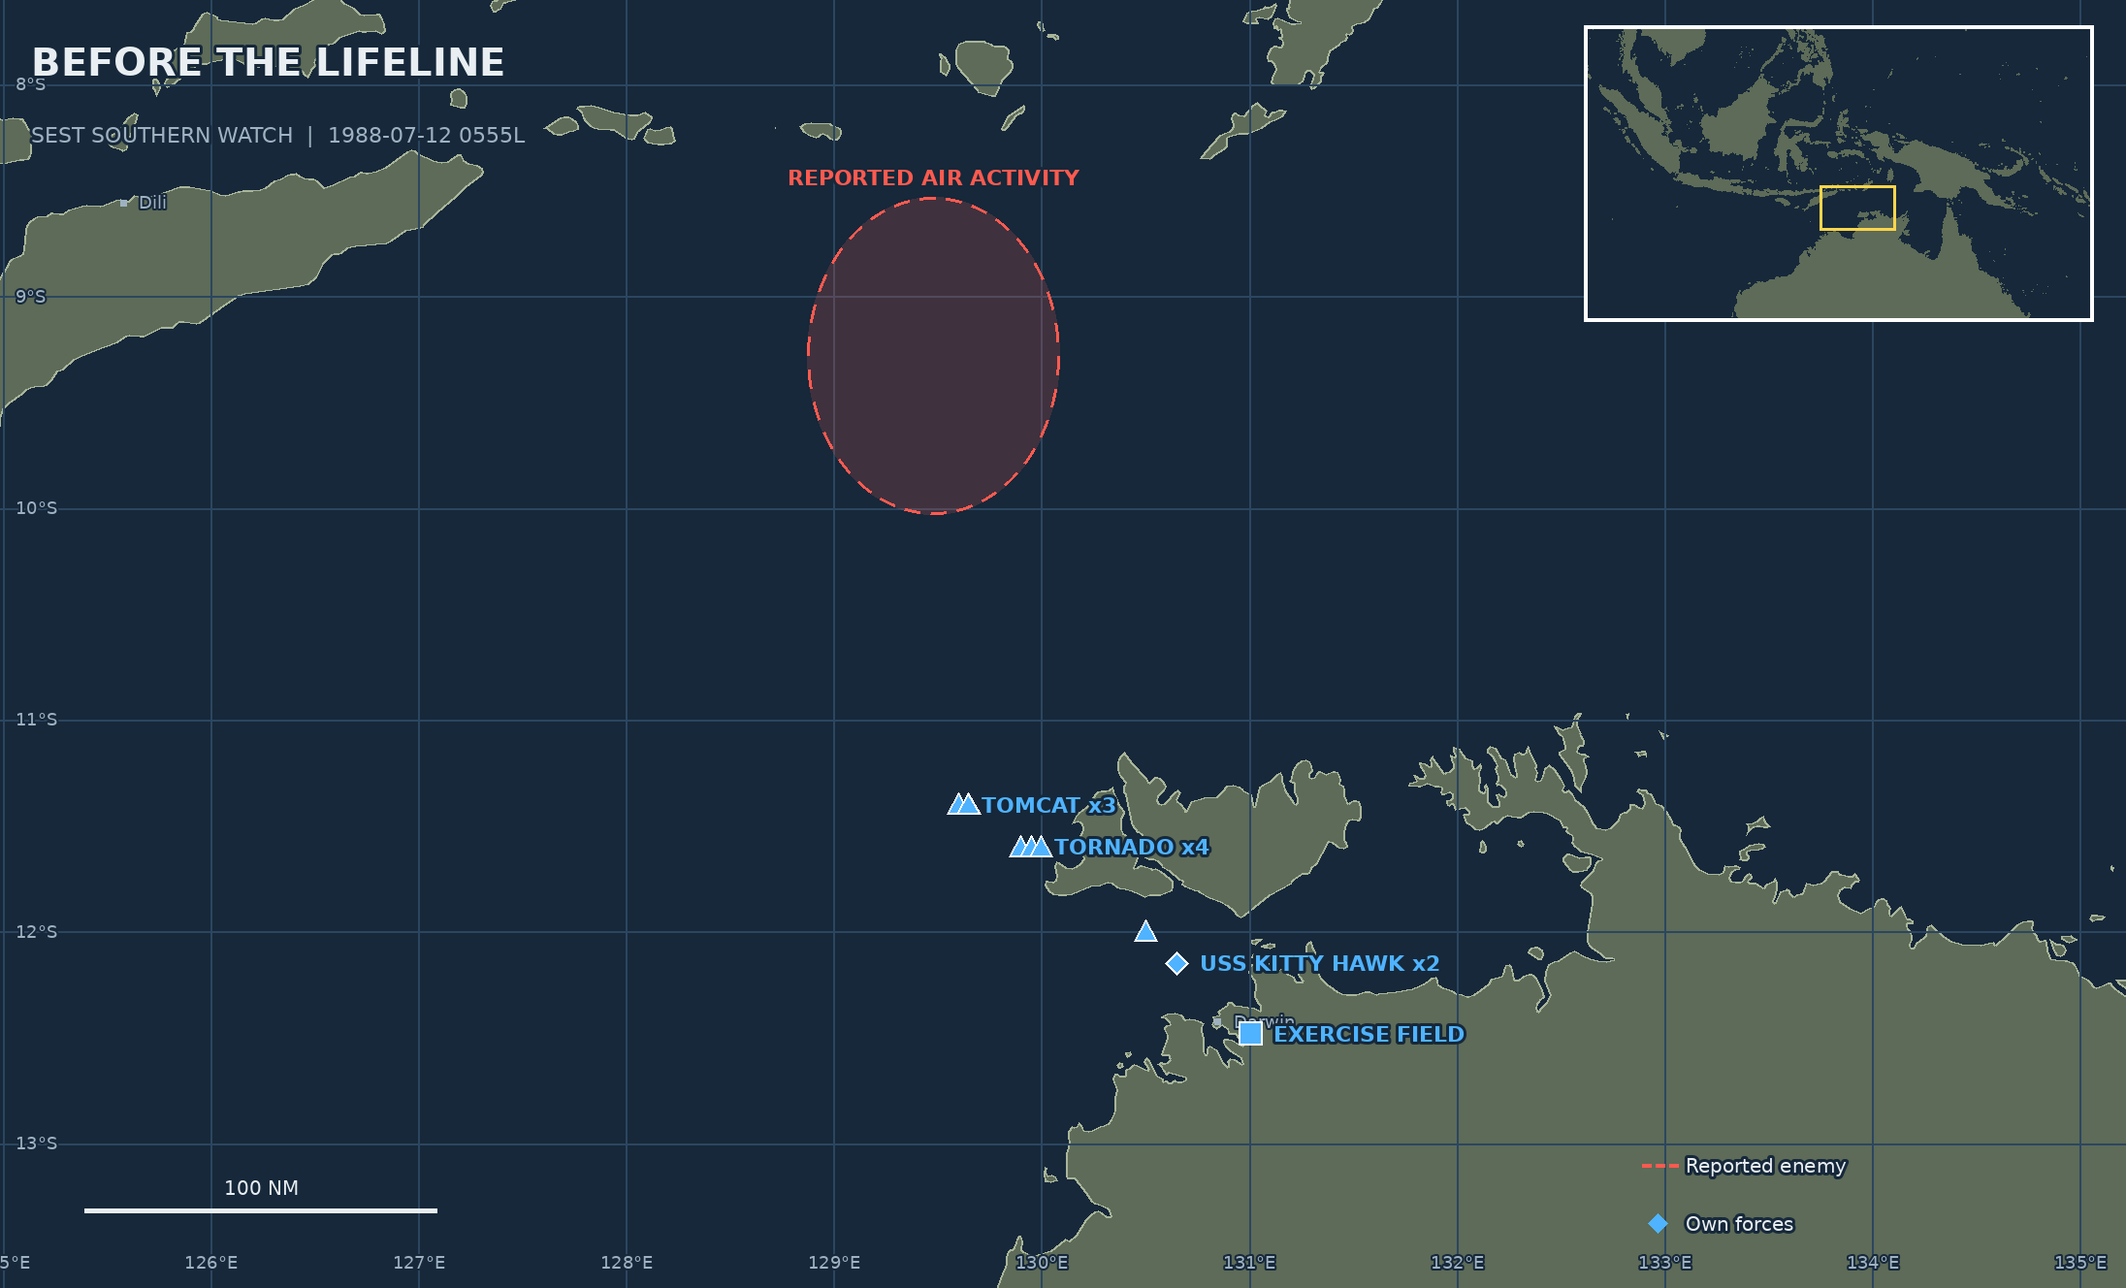
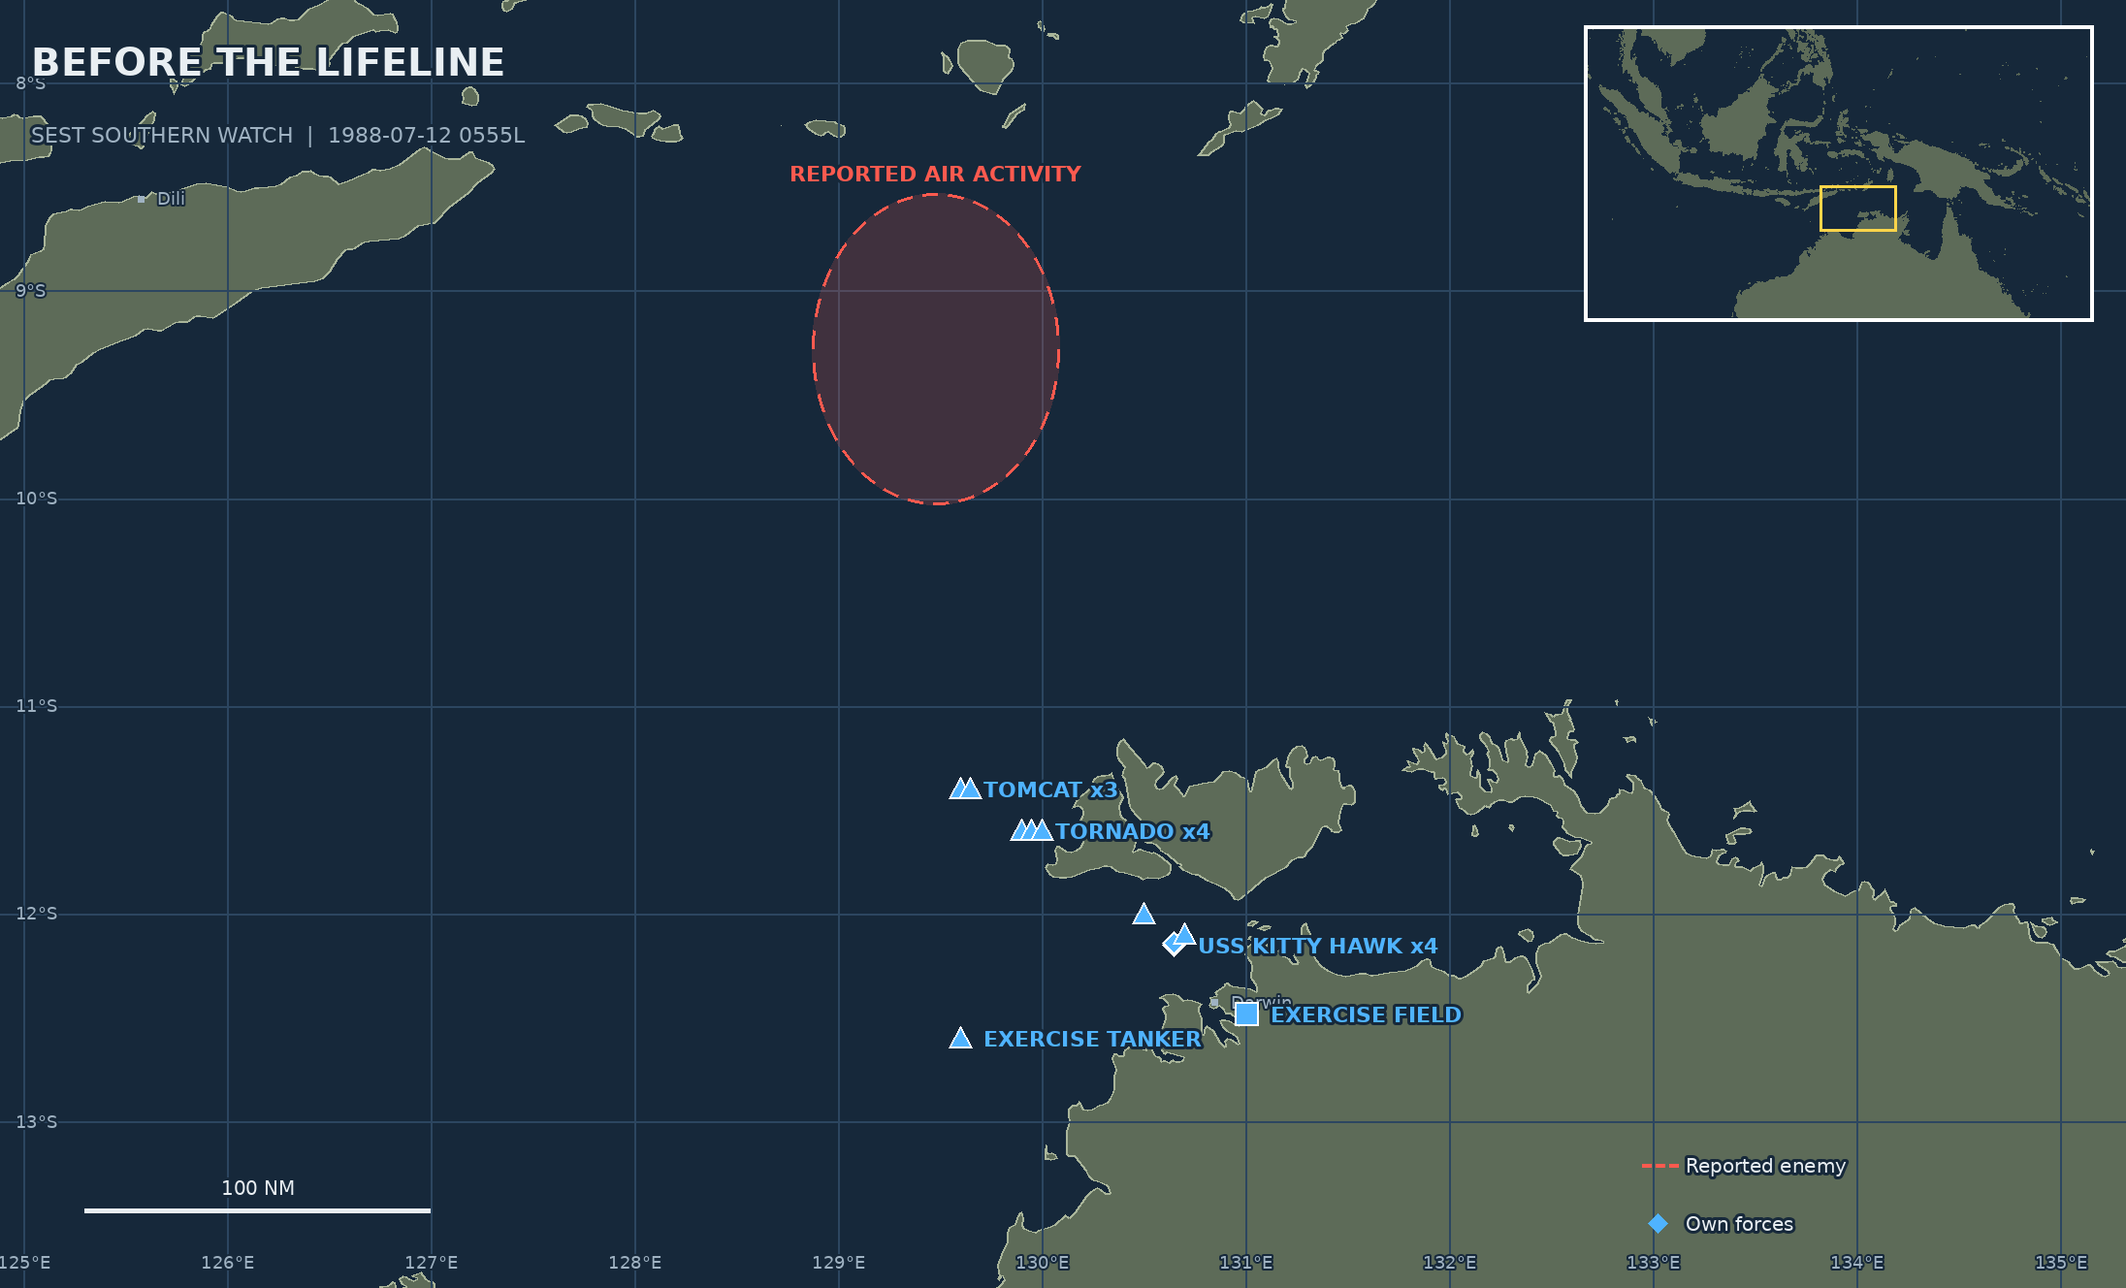
Retired types out of 2028: the S-70B-2, the KC-10A and the A-10A
Rule 3 puts retired types in COLD SEA, and three had stayed in the 2028
lists.

- SW12 "Eyre Flight" was an S-70B-2 (RAN retired 2017) on an Arafura,
  which has no hangar. Removed with its station; the forces line says
  "HMAS Eyre attached" and the helicopter over the convoy is the player's
  MH-60R.
- D2 Texaco 60 is a KC-46, not a KC-10A (USAF retired 2024); still air#2
  for the Tanker objective, and the brief says KC-46.
- D5's counter-launcher is the SEST A-10C+ on its AntiArmor fit, not an
  A-10A: the plus pack's pod and laser suit the shot. D8 keeps its own
  A-10C+; the A-10A mod is still placed by D7's field.
- D7 (July 1988) gains HMAS Adelaide (vanilla Variant1, 1980-2008) in the
  screen, the S-70B-2 as Tiger 01 and the KC-10A as the exercise tanker
  on a track of its own, clear of the objective-protected "high" station.
  The vanilla Adelaide's deck list leaves the Seahawk out, so it homes on
  Kitty Hawk, and is not named as Adelaide's flight. Tanker placed west of
  Darwin so its map label clears the field's.

Coverage stays 162/162: a-10a via D7's field, kc-10a and s-70b-2-seahawk
via D7.

Claude-Session: https://claude.ai/code/session_01QbR6QGxY9vLU6FSjbN4cKh

diff --git a/integration/campaign/campaign_data.py b/integration/campaign/campaign_data.py
@@ -1839,7 +1839,7 @@ MISSIONS.append(dict(
             "Do not be the incident that restarts this - a withdrawing ship you sink today is "
             "the reason the ceasefire fails before this convoy reaches port."
         )),
-    forces="Your escort group with HMAS Eyre and her flight attached, a Poseidon, and "
+    forces="Your escort group with HMAS Eyre attached, a Poseidon, and "
            "four merchant hulls. Two Chinese groups: one withdrawing, one "
            "not. A Wedgetail is up.",
     objectives=[
@@ -1866,7 +1866,6 @@ MISSIONS.append(dict(
          "now a thing that was tried once.",
     stations={
         "escort": S(-10.48, 131.77, "Escort group", heading=200),
-        "eyre_flight": S(-10.52, 131.8, "Eyre Flight", heading=200, alt=1500),
         "convoy": S(-10.4, 131.8, "First convoy", heading=200),
         "air": S(-10.8, 131.0, "Air support", heading=200, alt=20000),
         # Two fighter cockpits for whatever the finale's window sold, off
@@ -1890,9 +1889,11 @@ MISSIONS.append(dict(
           weapons="Tight"),
         U("blue", "SEST_RAN_Fleet", "ran_opv_arafura", "escort",
           variant="Variant2", name="HMAS Eyre", weapons="Tight"),
-        # Eyre's own flight: the S-70B-2 the RAN deck lists, on the RAN deck.
-        U("blue", "s-70b-2-seahawk", "S-70B-2_Seahawk", "eyre_flight",
-          name="Eyre Flight", alt=1500, weapons="Tight"),
+        # No flight of her own. She used to carry an S-70B-2 as "Eyre
+        # Flight", and the RAN retired the S-70B-2 in 2017 - and an Arafura
+        # has a flight deck and no hangar. The type flies in COLD SEA now
+        # (Before the Lifeline, 1988), and the helicopter over this convoy is
+        # the player's own MH-60R on the Ship's Flight row.
         U("blue", "p-8-poseidon", "usn_p8", "air", squadron="Squadron3", alt=18000, weapons="Tight"),
         U("blue", "e-7a-wedgetail", "E7A_Wedgetail", "aew", name="Wedgetail 03",
           weapons="Hold"),
@@ -2435,7 +2436,7 @@ MISSIONS.append(dict(
             "package, one running deck drills with a new air department and one cycling alert "
             "aircraft. A Seawolf is riding shotgun below and an E-3G is holding the wider "
             "picture while the RAAF Wedgetail is tasked elsewhere.\\n\\nThe tanker is the "
-            "schedule. Everything airborne today is planned around one KC-10, and the Reaper "
+            "schedule. Everything airborne today is planned around one KC-46, and the Reaper "
             "north of the box is watching a merchant that has been drifting off its filed route"
             " for two days.\\n\\nThere is a distinguished-visitor lift inbound - a VH-3D bringing"
             " the coalition maritime commander across for the afternoon. That airframe gets "
@@ -2446,7 +2447,7 @@ MISSIONS.append(dict(
             "before drawing conclusions about intent."
         )),
     forces="USS Nimitz, Carl Vinson and Theodore Roosevelt, one Seawolf, "
-           "an E-3G, a KC-10A, an MQ-9A north of the box and a VH-3D on "
+           "an E-3G, a KC-46A, an MQ-9A north of the box and a VH-3D on "
            "the visit.",
     objectives=[
         ("Visit", "Get the VH-3D into the carrier box", "25,-20,Fail,Main"),
@@ -2471,7 +2472,7 @@ MISSIONS.append(dict(
         "air": S(-15.0, 149.4, "Support aircraft", heading=90, alt=28000),
         "sub": S(-16.6, 150.2, "Seawolf station", heading=140),
         "track": S(-13.5, 148.6, "Southern track", heading=200, alt=22000),
-        # The Sentry and the Extender are land-based; a carrier with no
+        # The Sentry and the Pegasus are land-based; a carrier with no
         # AircraftSupported list took them only because nothing else could.
         "home": S(-12.6188, 142.094, "RAAF Base Scherger"),
     },
@@ -2486,7 +2487,10 @@ MISSIONS.append(dict(
         U("blue", "SEST_RAAF_Bases", "airbase_raaf_scherger", "home",
           name="RAAF Base Scherger", nation="australia", weapons="Hold"),
         U("blue", "e-3g", "usaf_e-3g", "air", name="Sentry 40", weapons="Hold"),
-        U("blue", "kc-10a", "usaf_kc-10a_extender", "air", name="Texaco 60",
+        # A KC-46, not the KC-10A this used to be: the USAF retired the
+        # Extender in 2024. It flies in COLD SEA's exercise now, where 1988
+        # is its own year. Still air#2, so the Tanker objective reads it.
+        U("blue", "kc-46a", "usaf_kc-46a_boom", "air", name="Texaco 60",
           weapons="Hold"),
         U("blue", "mq-9-reaper", "usaf_mq-9a", "track", name="Reaper 12",
           weapons="Tight"),
@@ -2735,7 +2739,7 @@ MISSIONS.append(dict(
         "Japanese Type 12 battery is firing a separate anti-ship serial at "
         "the seaward target."),
     forces="THAAD with AN/TPY-2, a David's Sling battery, a Type 12 SSM "
-           "battery, the range field, an A-10A with the counter-launcher shot "
+           "battery, the range field, an A-10C with the counter-launcher shot "
            "and an F-16A chase. "
            "Range threat pads: Scud-B, Sejjil, Iskander and a Shahed line.",
     objectives=[
@@ -2789,8 +2793,13 @@ MISSIONS.append(dict(
           name="Range field", weapons="Hold"),
         U("blue", "apex-predators-mig-29-f-16", "airfield_us", "field",
           name="Range support strip", weapons="Hold"),
-        U("blue", "a-10a", "usa_a-10a", "tow", name="Counter-launcher 01",
-          loadout="AntiArmor"),
+        # An A-10C+, not the A-10A this used to be: the A-10A fleet became
+        # A-10Cs long before 2028. The plus pack's Litening pod and laser are
+        # what a counter-launcher shot wants, and AntiArmor is one of its own
+        # fits. D8's Hog 22 is the same airframe; the A-10A mod is still
+        # placed by COLD SEA's exercise field.
+        U("blue", "SEST_A10C_Plus", "usaf_a-10c_plus", "tow",
+          name="Counter-launcher 01", loadout="AntiArmor"),
         U("blue", "apex-predators-mig-29-f-16", "usaf_f-16a", "tow",
           name="Chase 02", weapons="Hold"),
         U("red", "scud-b", "wp_scud_9k72", "pads", name="Range pad SCUD"),
@@ -2957,8 +2966,8 @@ MISSIONS.append(dict(
     brief=(
         (
             "DARWIN APPROACHES, JULY 1988. Exercise PITCH BLACK's maritime phase places an "
-            "American carrier group south of the Arafura against a mixed aggressor force flying"
-            " Soviet and Chinese profiles.\\n\\nA Bear G is running the maritime strike serial "
+            "American carrier group, with HMAS ADELAIDE in its screen, south of the Arafura "
+            "against a mixed aggressor force flying Soviet and Chinese profiles.\\n\\nA Bear G is running the maritime strike serial "
             "with a Badger tanker behind it. Dragon 41, the U-2, is high over the exercise box;"
             " the Nighthawk detachment faces the aggressor squadron's J-8s and MiG-23. Airborne"
             " and ship radar reports form the working picture.\\n\\nIt was an exercise until "
@@ -2967,9 +2976,9 @@ MISSIONS.append(dict(
             "protect Dragon 41 throughout the engagement. The umpires are still on the net: the"
             " Badger tanker is out of play and a shot at it is scored against you."
         )),
-    forces="USS Kitty Hawk, F-14A and F-117 detachments, a B-52G, a U-2, "
-           "an Italian Tornado on exchange. Aggressors: two J-8, a MiG-23, a "
-           "Bear G, a Tu-16N tanker.",
+    forces="USS Kitty Hawk and HMAS Adelaide, an RAN Seahawk, F-14A and F-117 "
+           "detachments, a B-52G, a U-2, a KC-10A, an Italian Tornado on "
+           "exchange. Aggressors: two J-8, a MiG-23, a Bear G, a Tu-16N tanker.",
     objectives=[
         ("Serial", "Kill the Bear before its release line", "35,-25,Fail,Main"),
         ("Recovery", "Keep Dragon 41 safe throughout the interception", "15,-15,Complete"),
@@ -3006,6 +3015,12 @@ MISSIONS.append(dict(
         "sweep": S(-9.6, 129.6, "Aggressor sweep", heading=180, alt=30000),
         "sea": S(-12.1, 130.7, "Exercise surface group", heading=270),
         "range": S(-12.5, 131.0, "Exercise field", heading=0),
+        # The blue tanker's own track, off the Recovery objective's "high"
+        # station - which protects every unit on it - and off the red
+        # Badger's "tanker", which the Umpire objective spares. West of
+        # Darwin, so its map label clears the field's and the town's.
+        "texaco": S(-12.6, 129.6, "Exercise tanker track", heading=270,
+                    alt=26000),
     },
     units=[
         U("blue", "_vanilla", "usn_f-14a", "cap", name="Tomcat 101"),
@@ -3019,6 +3034,21 @@ MISSIONS.append(dict(
           weapons="Hold"),
         U("blue", "flight-deck-ops", "usn_cv_kitty_hawk", "sea",
           name="USS Kitty Hawk"),
+        # The RAN in the surface group, in the year it was still the
+        # Adelaide class's navy (Variant1, FFG-01, in service 1980-2008).
+        U("blue", "_vanilla", "ran_ffg_adelaide_shorthull", "sea",
+          variant="Variant1", name="HMAS Adelaide"),
+        # The S-70B-2 in its own era: 816 Squadron's type from 1988 to 2017.
+        # The vanilla Adelaide's deck list is the Squirrel-era one and leaves
+        # the Seahawk out, so the builder homes it on Kitty Hawk, whose file
+        # lists nothing and takes any helicopter - an RAN aircraft cross-
+        # decked for the exercise. Unnamed as Adelaide's for that reason.
+        U("blue", "s-70b-2-seahawk", "S-70B-2_Seahawk", "sea",
+          name="Tiger 01", alt=1500, weapons="Tight"),
+        # The KC-10A, in service from 1981: it left D2's 2028 carrier box
+        # for this. Out of the fight, Hold.
+        U("blue", "kc-10a", "usaf_kc-10a_extender", "texaco",
+          name="Exercise tanker", weapons="Hold"),
         U("blue", "a-10a", "airfield_a-10", "range", name="Exercise field",
           weapons="Hold"),
         # To the release line on the 157 line, 82 NM short of Kitty Hawk,

diff --git a/docs/campaign-coverage.md b/docs/campaign-coverage.md
@@ -2,7 +2,7 @@
 
 Generated by `integration/campaign/build_pack.py`. Do not edit.
 
-The campaign is 26 missions built from 375 placed units. Every mod in the canonical load order (`data/load-order.tokens.txt`) and every SEST source pack appears below, with the mechanism that makes the game read its files. Coverage is measured on the load order rather than on catalog status, because five enabled entries are catalogued deprecated and two WIP while still being required donors.
+The campaign is 26 missions built from 377 placed units. Every mod in the canonical load order (`data/load-order.tokens.txt`) and every SEST source pack appears below, with the mechanism that makes the game read its files. Coverage is measured on the load order rather than on catalog status, because five enabled entries are catalogued deprecated and two WIP while still being required donors.
 
 | class | meaning | mods |
 |---|---|---|
@@ -20,8 +20,8 @@ Sea and land positions are snapped to points already used by a loading mission; 
 | mod / pack | title | class | via | mission |
 |---|---|---|---|---|
 | `3m25-meteorit` | 3M25 <<МЕТЕОРИТ>> (AS-X-19 Koala) | `unit` | wp_tu-95ma | Long Reach |
-| `a-10a` | A-10A Thunderbolt II | `unit` | usa_a-10a | Range Week |
-| `a-10c` | A-10C | `store` | usa_a-10c / usaf_alq-184_2 | The Long Perimeter |
+| `a-10a` | A-10A Thunderbolt II | `unit` | airfield_a-10 | Before the Lifeline |
+| `a-10c` | A-10C | `store` | usaf_a-10c_plus / usaf_alq-184_2 | Range Week |
 | `a-50-il-76` | Soviet AEW&C + Transport Aircraft (A-50 / Il-76) | `unit` | wp_a-50u | Long Way Home |
 | `ac-130-pack` | Lockheed AC-130 Pack | `unit` | usaf_ac-130j | The Long Perimeter |
 | `ado-nimitz-2000s` | Air Deck Operations Upgrade - Nimitz (2000s) | `unit` | usn_cvn_nimitz_2000s_adou | Flight Deck Day |
@@ -90,7 +90,7 @@ Sea and land positions are snapped to points already used by a loading mission; 
 | `j-8` | Shenyang J-8 | `unit` | plaaf_j-8f | Before the Lifeline |
 | `jh-7a` | XIAN JH-7A (歼轰-7A 飞豹) | `unit` | plaaf_jh7a | Weapons Free |
 | `ka-27rld` | Ka-27RLD | `unit` | wp_ka-27rdl | Southern Lifeline |
-| `kc-10a` | McDonnell Douglas KC-10A Extender - Strategic Tanker | `unit` | usaf_kc-10a_extender | Flight Deck Day |
+| `kc-10a` | McDonnell Douglas KC-10A Extender - Strategic Tanker | `unit` | usaf_kc-10a_extender | Before the Lifeline |
 | `kc-135` | KC-135 STRATOTANKER | `unit` | usaf_stratotanker | Long Way Home |
 | `kc-46a` | KC-46A Pegasus - Strategic Tanker | `unit` | usaf_kc-46a_boom | Steel Highway |
 | `kirov-pyotr-velikiy` | Kirov-class (Pyotr Velikiy Upgrade) | `variant` | wp_rkr_kirov_improved | Return Passage |
@@ -129,7 +129,7 @@ Sea and land positions are snapped to points already used by a loading mission; 
 | `rq-180-white-bat` | RQ-180 White Bat Airframe | `unit` | usaf_rq-180 | Long Reach |
 | `russian-navy-21` | Russian Navy 21 | `variant` | rfn_ffg_11356 | Return Passage |
 | `russian-submarines` | Russian Submarines (Yasen, Akula, Sierra I/II, Oscar II, Belgorod, Typhoon, Delta IV classes) | `unit` | wp_ssn_akula | Southern Lifeline |
-| `s-70b-2-seahawk` | [DEPRECATED] S-70B-2 Seahawk with AGM-114 'Hellfire' Missiles | `unit` | S-70B-2_Seahawk | The First Ship Through |
+| `s-70b-2-seahawk` | [DEPRECATED] S-70B-2 Seahawk with AGM-114 'Hellfire' Missiles | `unit` | S-70B-2_Seahawk | Before the Lifeline |
 | `sa-21-s400` | SA-21/S-400 SAM | `unit` | wp_sam_site_sa-21 | The Open Door |
 | `saab-aewc-pack` | SAAB AEW&C PACK | `unit` | dts_saab_ge | Western Passage |
 | `sam-pack` | SAM Pack | `unit` | fr_vl-mica_tel | Rig Seventeen |
@@ -161,7 +161,7 @@ Sea and land positions are snapped to points already used by a loading mission; 
 | `y-8-y-9-family` | Y-8/Y-9 Special Mission Aircraft Family | `shadowed` | all twelve airframes are outranked by Modern PLAN Systems, which ships the same ids higher in the order - it is an intentional overlapping source, not a missing one | - |
 | `yf-23-black-widow-ii` | YF-23 Black Widow II | `unit` | usaf_yf-23_black_widow_ii | Long Reach |
 | `z-21` | AVIC HARBIN Z-21 | `unit` | pla_z21 | The Long Perimeter |
-| `SEST_A10C_Plus` | SEST A-10C+ | `unit` | usaf_a-10c_plus | The Long Perimeter |
+| `SEST_A10C_Plus` | SEST A-10C+ | `unit` | usaf_a-10c_plus | Range Week |
 | `SEST_ADF_Persistent_ISR` | SEST ADF Persistent ISR | `unit` | raaf_mq-4c_triton | White Water |
 | `SEST_Allied_Fixes` | SEST Allied Fixes | `unit` | usn_p8 | White Water |
 | `SEST_B52_ARRW` | SEST B-52 ARRW | `unit` | usaf_b-52o | Long Reach |

diff --git a/docs/campaigns/southern-watch/build-notes.md b/docs/campaigns/southern-watch/build-notes.md
@@ -1087,6 +1087,33 @@ take the Attack row, which the audit had missed. Window 09 has the same shape
 window 11 - and was left alone: those are replacement sales of aircraft the
 player has been able to buy and fly since window 05.
 
+**Retired types out of 2028.** Rule 3 puts retired types in COLD SEA, and
+three had stayed in the 2028 lists:
+
+- SW12's "Eyre Flight" was an S-70B-2, which the RAN retired in 2017, on an
+  Arafura, which has a flight deck and no hangar. It is gone; the forces line
+  says "HMAS Eyre attached", and the helicopter over the convoy is the
+  player's MH-60R on the Ship's Flight row.
+- D2's Texaco 60 was a KC-10A, which the USAF retired in 2024. It is a KC-46
+  now, still `air#2`, so the Tanker objective reads it; the brief says KC-46.
+- D5's counter-launcher was an A-10A. It is the SEST A-10C+ with its own
+  AntiArmor fit. D8's Hog 22 already covers that pack, so this is a second
+  placement rather than a coverage one; it was chosen over leaving the A-10C+
+  in D8 alone because a counter-launcher shot is what the plus pack's
+  Litening pod and laser are for, and any 2028 A-10 in D5 would be an A-10C
+  of one pack or the other. The A-10A mod is still placed, by D7's exercise
+  field.
+
+D7 (July 1988) takes what left: HMAS Adelaide (vanilla
+`ran_ffg_adelaide_shorthull` Variant1, in service 1980-2008) in the surface
+group, an S-70B-2 as Tiger 01, and the KC-10A as the exercise tanker on its
+own track - not on the "high" station, whose every unit the Recovery
+objective protects. The vanilla Adelaide's `AircraftSupported` is the
+Squirrel-era list and leaves the S-70B-2 out, so the builder homes the
+Seahawk on Kitty Hawk, whose file lists nothing; it is named Tiger 01 rather
+than Adelaide's flight for that reason. The KC-10A homes on the exercise
+field.
+
 ## What exists
 
 | Thing | Where |
